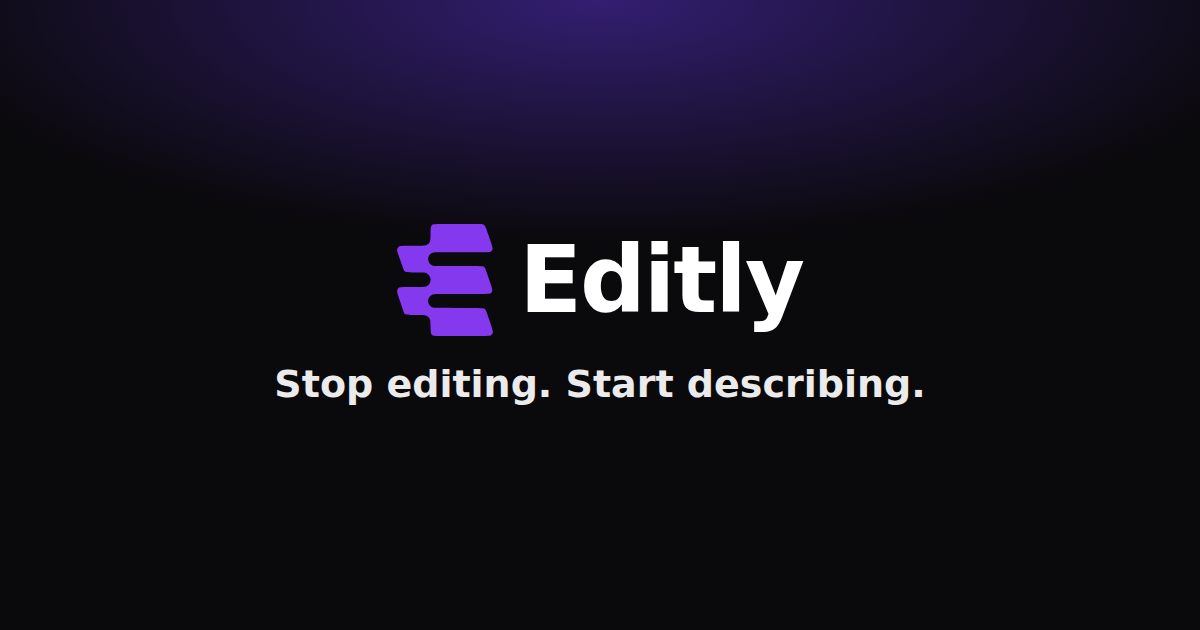
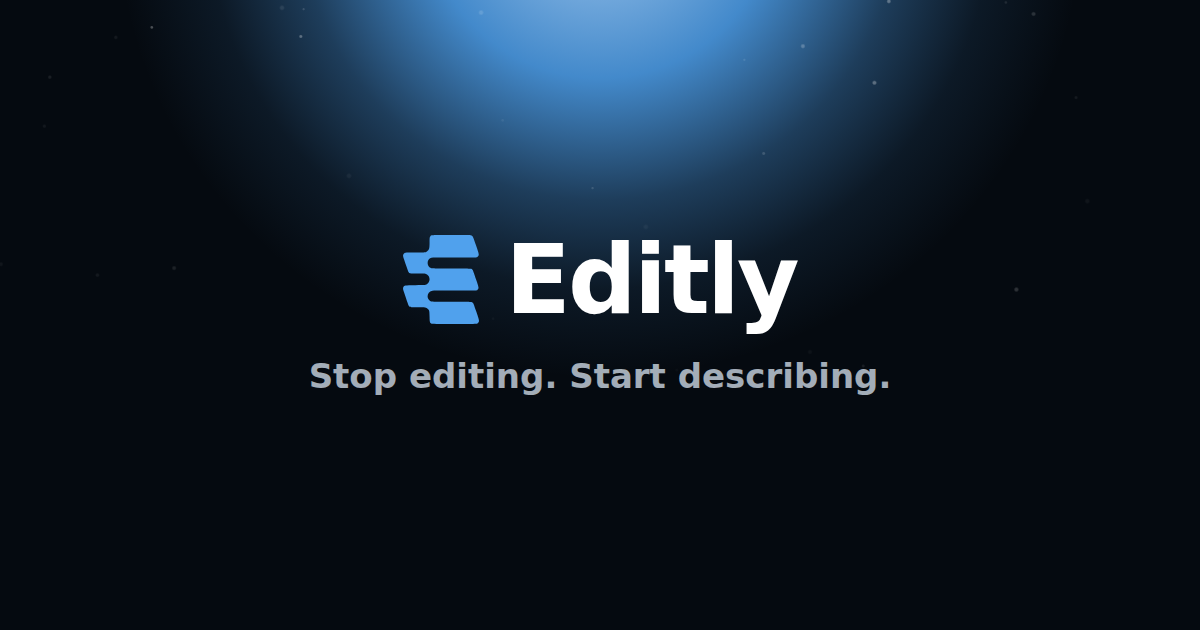
The violet that was left inside the binaries
Osama opened a new tab on his phone and Safari showed the site's card:
violet ground, violet mark, on a product that has been blue for two days.
The stylesheets were done; the images were not, and neither was the
colour the browser paints its own chrome with.

Five things were still the old palette. `favicon.svg` carried `#8539EF`
in its one fill. `og-image.png` — the card Safari, WhatsApp, Slack and X
all show — was a violet wash with a violet mark. `apple-touch-icon.png`
was the mark in violet on cream, which was the old light ground.
`logo.png` was the violet mark. And the two `theme-color` metas still
said `#0A090B` and `#FAF8FE`, which is the tint a phone paints round the
page before a single pixel of ours is drawn.

The SVG is source and could just be edited. The three PNGs could not, and
that is the actual problem: a colour that only exists inside a binary is
a colour nobody remembers to change. So `tools/brand-assets.mjs` renders
them, from the same mark and the same tokens as the page — it reads the
path straight out of `favicon.svg`, so the icon and the card can never
drift from each other again, and the card gets the hero's own key light
and star field rather than an approximation of it. The light is a wider
ellipse there: the page is 1200×894 and the card is 1200×630, so the
same percentages make a ball instead of a lamp.

The touch icon goes dark rather than cream — a navy tile with the mark
lit on it, which is the product it opens.
[…]

diff --git a/artifacts/editly/index.html b/artifacts/editly/index.html
@@ -34,8 +34,8 @@
     <!-- iOS composites this onto black, so unlike the favicon it carries its
          own ground rather than being transparent. -->
     <link rel="apple-touch-icon" href="/apple-touch-icon.png" />
-    <meta name="theme-color" content="#0A090B" media="(prefers-color-scheme: dark)" />
-    <meta name="theme-color" content="#FAF8FE" media="(prefers-color-scheme: light)" />
+    <meta name="theme-color" content="#050A10" media="(prefers-color-scheme: dark)" />
+    <meta name="theme-color" content="#F9FBFD" media="(prefers-color-scheme: light)" />
 
     <meta property="og:title" content="Editly — Stop editing. Start describing." />
     <meta property="og:description" content="Upload a raw take, say what you want, and get back something ready to post." />
